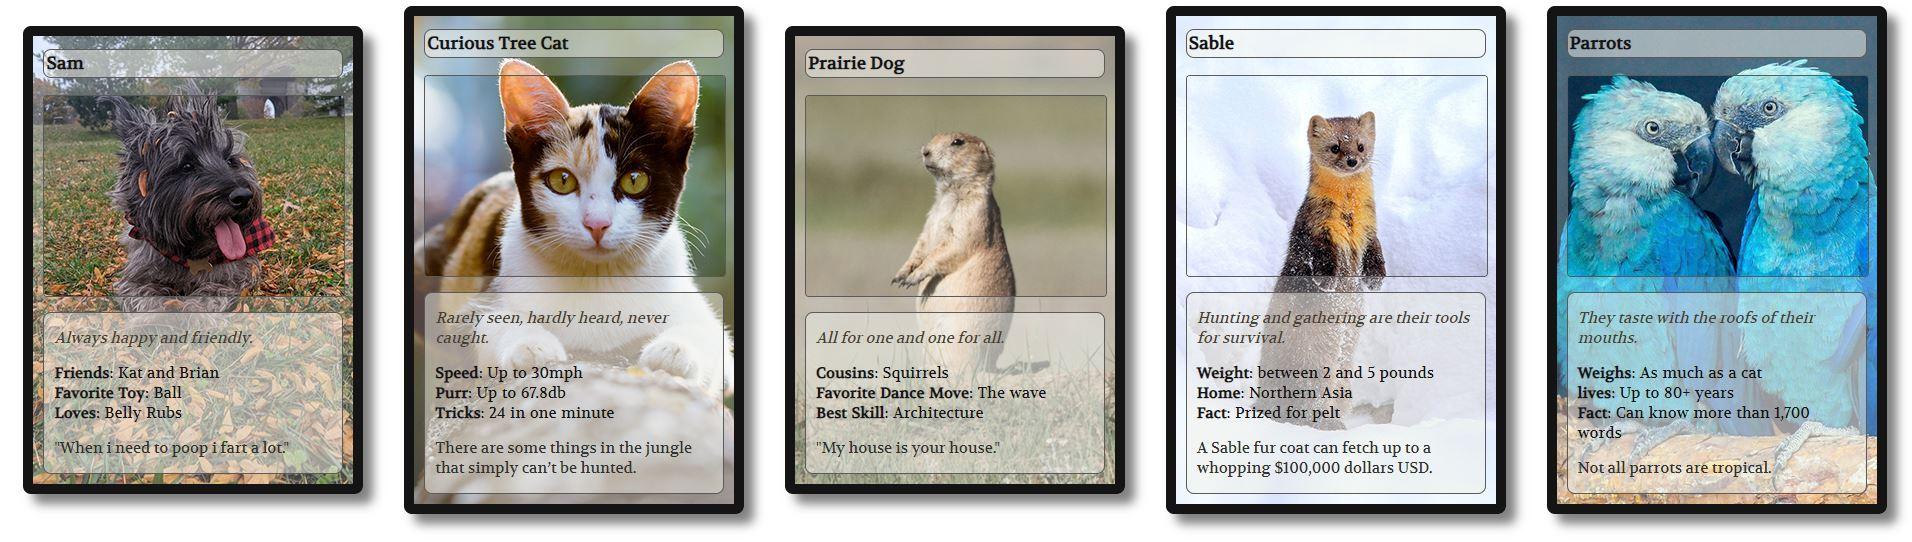
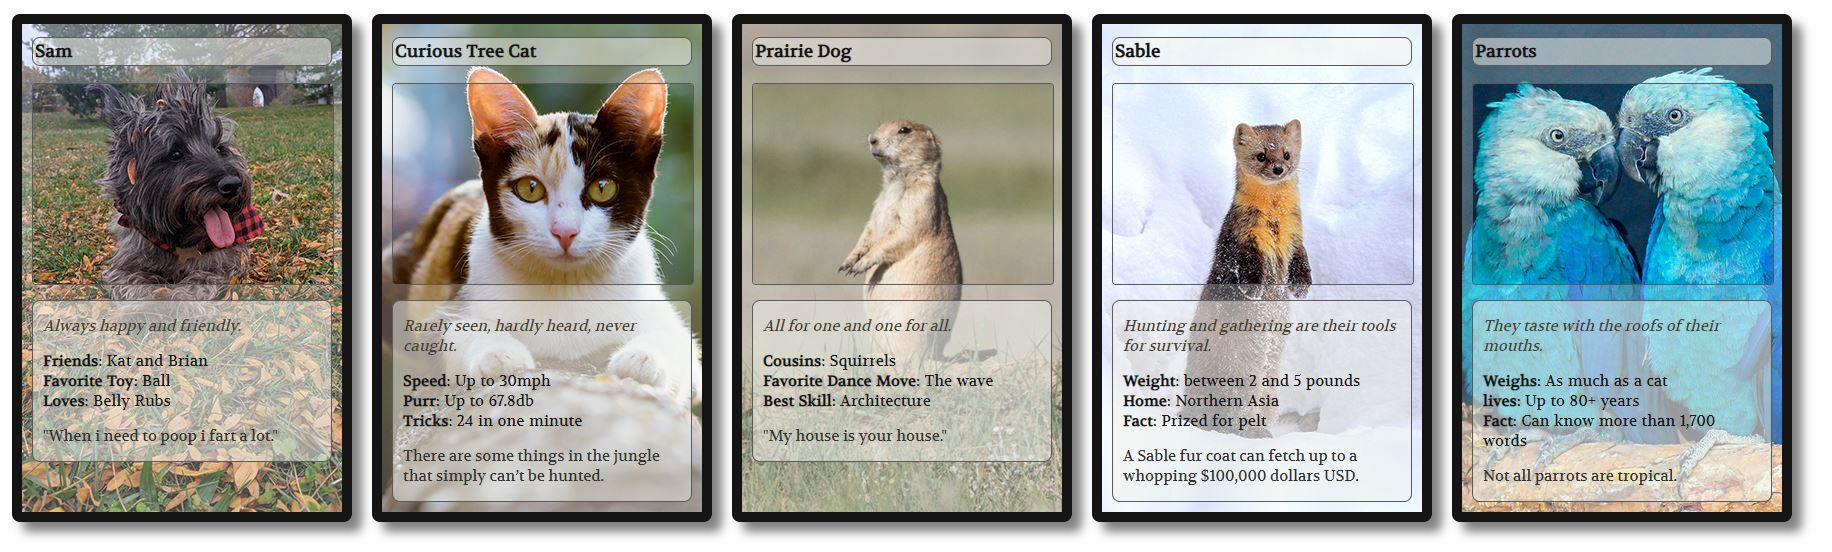
Edit Cards margins

diff --git a/CSS/animal-trading-cards-master/styles.css b/CSS/animal-trading-cards-master/styles.css
@@ -8,7 +8,7 @@ body {
 .background {
     background-repeat: no-repeat;
     width: 300px;
-    margin: auto;
+    margin: 10px;
     border: 10px solid rgb(20, 20, 20);
     border-radius: 8px;
     padding: 10px;

diff --git a/CSS/Felx.html b/CSS/Felx.html
@@ -12,5 +12,7 @@
       <div class="box black"></div>
       <div class="box red"></div>
     </div>
+  
+  <img src="https://picsum.photos/400">
   </body>
 </html>

diff --git a/CSS/Flex_style.css b/CSS/Flex_style.css
@@ -16,3 +16,7 @@
 .black {
       background-color: black;
 }
+
+img {
+    width: 300px;
+}
